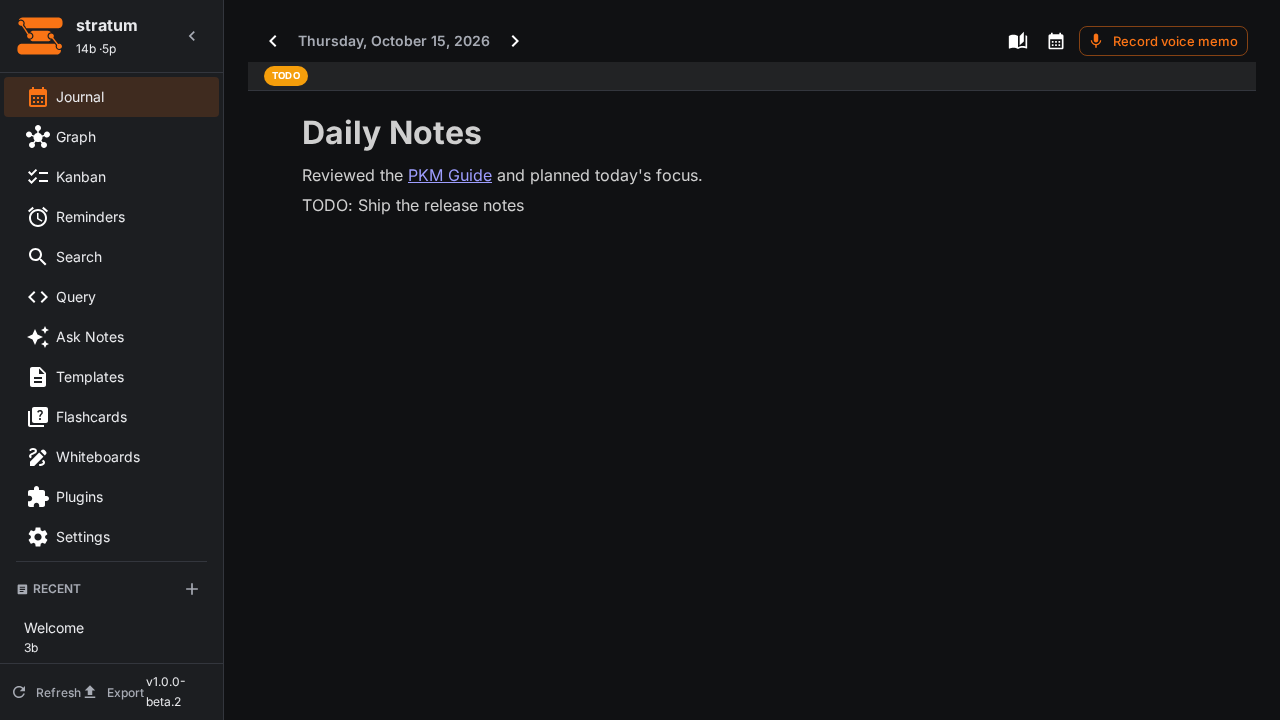
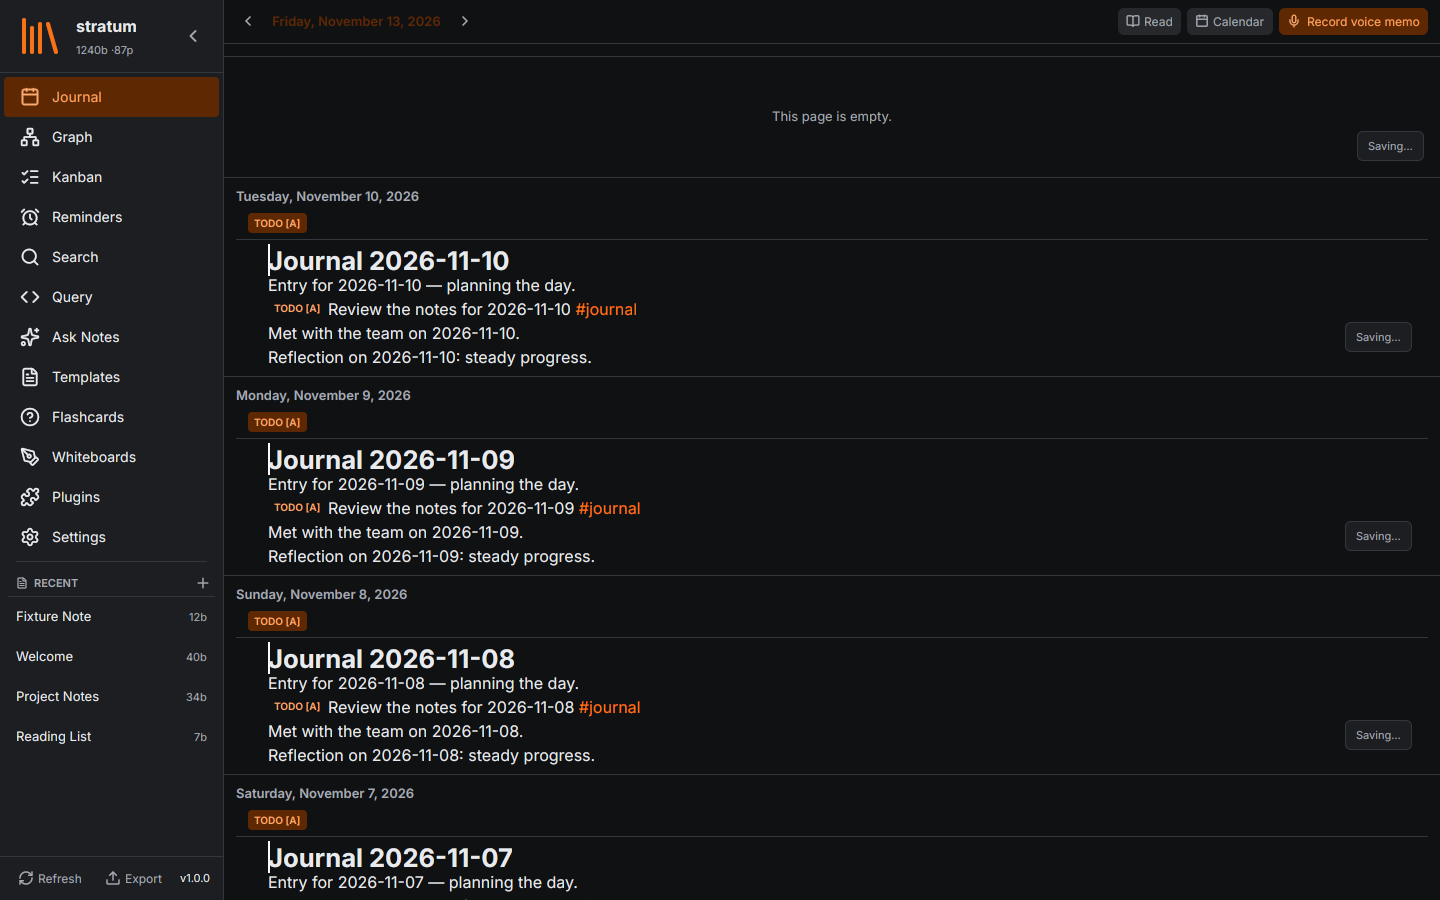
chore(release): 2.0.0 — native cutover version bump and docs refresh
- workspace version 1.0.0 -> 2.0.0 (Android versionName fallback too)
- README/docs/index: version references and gpui-era screenshots
  (goldens/gpui captures replace the React/Tauri ones)
- CHANGELOG.md seeded with the 2.0.0 native-cutover entry
- rust-guide: stale src-tauri path comment -> crates/stratum-app/src/vault

No tag or release is cut in this change.

diff --git a/CHANGELOG.md b/CHANGELOG.md
@@ -1,0 +1,56 @@
+# Changelog
+
+All notable changes to Stratum are recorded here. The format follows
+[Keep a Changelog](https://keepachangelog.com/en/1.1.0/) and the project uses
+[Semantic Versioning](https://semver.org/spec/v2.0.0.html). Release notes for
+published versions are also available on the
+[GitHub Releases page](https://github.com/short-circuit/stratum/releases).
+
+## [2.0.0] — unreleased
+
+The native cutover. The shipped application is now a single Rust/gpui shell;
+the React + Tauri frontend was deleted once the native surfaces reached parity.
+
+### Added
+
+- **Native gpui desktop shell** — sidebar, router, shell chrome and all twelve
+  navigation surfaces (`crates/stratum-ui`).
+- **`stratum-editor`** — headless block-editor engine plus the native editor
+  view: WYSIWYM staging, slash actions, table blocks, block drag-and-drop,
+  wiki-link autocomplete, attachments (thumbnails, drag-and-drop, paste upload)
+  and read-aloud.
+- **`stratum-graph`** — deterministic force simulation, link curvature, camera
+  fit and a headless 3D renderer behind the native graph panel.
+- **`stratum-canvas`** — Excalidraw-compatible board engine with inline text
+  editing, groups, locking, z-order and nudge, behind the native whiteboards.
+- **`stratum-platform`** — native OS glue (tray, quick capture, notifications,
+  global shortcut) replacing the seven Tauri plugins.
+- **`stratum-mobile`** — gpui Android host: activity, safe areas, system back
+  gesture and the Gradle APK/AAB project.
+- **`stratum-i18n`** — eight locale catalogs (de, el, en, es, fr, it, ja, zh)
+  with a catalog-to-code coverage gate.
+- Journal calendar, stacking, read mode and voice capture in the native shell.
+- Native settings surface with live theme application.
+- Packaging for every shipped format — deb, rpm, AppImage, MSI, NSIS, macOS
+  bundles and Android APK/AAB — with the `gpui-release.yml` workflow.
+- Parity harness: golden screenshots, performance budgets and an accessibility
+  probe, replacing the Playwright e2e suite.
+
+### Changed
+
+- One CI pipeline (`ci.yml`) guards the native shell: repo hygiene, workspace
+  fmt/clippy/test, Windows and macOS shell builds, parity, Android build and
+  smoke, MCP coverage and the security audit.
+- Project version is now 2.0.0 (workspace `version`, Android `versionName`).
+
+### Removed
+
+- The React/TypeScript frontend (`src/`), the Tauri shell (`src-tauri/`), the
+  Playwright harness (`e2e/`, `verification/cdp_probe.mjs`) and the npm
+  toolchain (`package.json`, lockfile, `tsconfig*`, Vite/Vitest/ESLint/Knip
+  configs). The frozen web build remains available as the `v1.0.0` tag.
+
+## [1.0.0] — 2026-11-08
+
+- First stable release: React/Tauri desktop application, Android build, deb /
+  rpm / AppImage / MSI / macOS packaging, and the published documentation site.

diff --git a/README.md b/README.md
@@ -174,7 +174,7 @@ plus the MCP server for programmatic access.
 
 ## Screenshots
 
-The app, in real shipped state (v1.0.0-beta.3).
+The app, in real shipped state (v2.0.0).
 
 <p align="center">
   <img src="docs/assets/images/readme-editor.png" alt="Stratum block editor" width="640">
@@ -203,7 +203,7 @@ The app, in real shipped state (v1.0.0-beta.3).
 
 <p align="center">
   <img src="docs/assets/images/readme-dictation.png" alt="Stratum dictation" width="640">
-  <br><em>Voice dictation panel.</em>
+  <br><em>Voice capture — dictate straight into today's journal.</em>
 </p>
 
 <p align="center">
@@ -285,7 +285,7 @@ For the full quick-start, see [docs/getting-started/quickstart.md](docs/getting-
 
 ## Roadmap
 
-Stratum is in active development — v1.0.0-beta.3. See the
+Stratum is in active development — v2.0.0. See the
 [documentation home](https://short-circuit.github.io/stratum/docs/) for every
 feature guide (block editor, linking, graph, Datalog, sync, MCP server, and
 more). The docs are also mirrored in this repository under

diff --git a/docs/development/rust-guide.md b/docs/development/rust-guide.md
@@ -165,7 +165,7 @@ impl From<rusqlite::Error> for StoreError {
 However, note that `pkm-block/src/store.rs` defines its own `StoreError` type. This is a known area for refactoring. The `StoreError` should ideally be converted to `PkmError` at the crate boundary. The service layer catches these and converts them to `String` anyway:
 
 ```rust
-// src-tauri/src/commands/vault/mod.rs
+// crates/stratum-app/src/vault/mod.rs
 let store = pkm_block::BlockStore::open(&state.db_path).map_err(|e| e.to_string())?;
 ```
 

diff --git a/docs/index.md b/docs/index.md
@@ -99,7 +99,7 @@ See the [Installation Guide](getting-started/installation.md) for detailed setup
 
 ## Project Status
 
-Stratum is in active development. Version 1.0.0-beta.3. All core features are implemented and working.
+Stratum is in active development. Version 2.0.0. All core features are implemented and working.
 
 - **License:** AGPL-3.0-only
 - **Repository:** [github.com/short-circuit/stratum](https://github.com/short-circuit/stratum)
